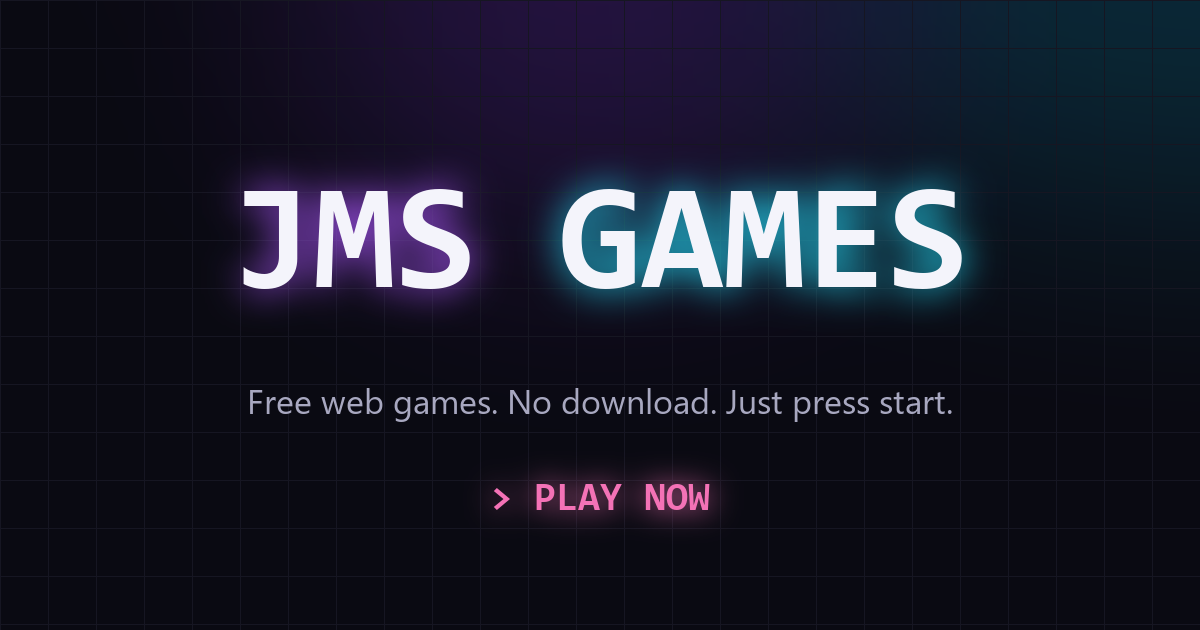
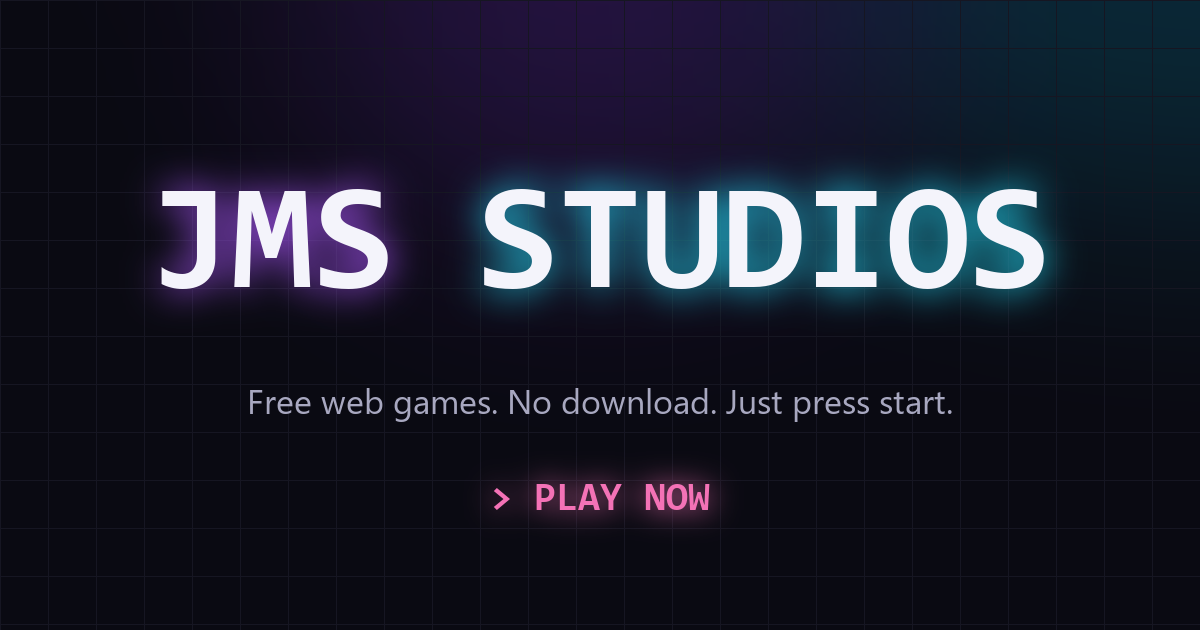
Rebrand hub to JMS Studios; remove personal name from site
- Wordmark, title, meta/OG, favicon, 404, manifest copy -> JMS Studios
- Footer now shows jmsgames.com instead of a byline
- Regenerated OG image with JMS Studios branding
- Domain stays jmsgames.com

Changed region(s): [[0.1233, 0.2714, 0.8942, 0.5127]]

diff --git a/index.html b/index.html
@@ -3,16 +3,16 @@
   <head>
     <meta charset="utf-8" />
     <meta name="viewport" content="width=device-width, initial-scale=1" />
-    <title>JMS Games — Play Joe Sardo's web games</title>
+    <title>JMS Studios — Play our web games</title>
     <meta
       name="description"
-      content="JMS Games is the home of Joe Sardo's web games. Browse and play the collection — free, in your browser, no download."
+      content="JMS Studios is the home of our web games. Browse and play the collection — free, in your browser, no download."
     />
     <meta name="theme-color" content="#0a0a12" />
 
     <!-- Open Graph / social -->
     <meta property="og:type" content="website" />
-    <meta property="og:title" content="JMS Games" />
+    <meta property="og:title" content="JMS Studios" />
     <meta property="og:description" content="Free web games, playable in your browser. No download." />
     <meta property="og:url" content="https://jmsgames.com" />
     <meta property="og:image" content="https://jmsgames.com/assets/og.png" />
@@ -50,7 +50,7 @@
     <header class="site-header">
       <a class="brand" href="/">
         <span class="brand-mark">JMS</span>
-        <span class="brand-word">GAMES</span>
+        <span class="brand-word">STUDIOS</span>
       </a>
       <p class="tagline">Free web games. No download. Just press start.</p>
     </header>
@@ -62,7 +62,7 @@
           <span class="hero-line-2">PLAY NOW.</span>
         </h1>
         <p class="hero-sub">
-          A growing arcade of browser games built by Joe Sardo. Click any cabinet to play.
+          A growing arcade of browser games from JMS Studios. Click any cabinet to play.
         </p>
       </section>
 
@@ -80,7 +80,7 @@
     </main>
 
     <footer class="site-footer">
-      <p>&copy; <span id="year"></span> JMS Games · Built by Joe Sardo</p>
+      <p>&copy; <span id="year"></span> JMS Studios · <a href="https://jmsgames.com">jmsgames.com</a></p>
     </footer>
 
     <script src="/app.js"></script>

diff --git a/404.html b/404.html
@@ -3,7 +3,7 @@
   <head>
     <meta charset="utf-8" />
     <meta name="viewport" content="width=device-width, initial-scale=1" />
-    <title>404 — JMS Games</title>
+    <title>404 — JMS Studios</title>
     <meta name="theme-color" content="#0a0a12" />
     <link rel="icon" href="/favicon.svg" type="image/svg+xml" />
     <link rel="preconnect" href="https://fonts.googleapis.com" />

diff --git a/assets/make_og.py b/assets/make_og.py
@@ -49,13 +49,13 @@ def draw_glow_text(base, xy, text, font, fill, glow_color, anchor="mm", blur=18)
 # --- title: JMS GAMES (two-color) ---
 cx, cy = W // 2, 250
 jms = "JMS "
-games = "GAMES"
+studios = "STUDIOS"
 jms_w = draw.textlength(jms, font=title_font)
-games_w = draw.textlength(games, font=title_font)
-total = jms_w + games_w
+studios_w = draw.textlength(studios, font=title_font)
+total = jms_w + studios_w
 start = cx - total / 2
 draw_glow_text(img, (start + jms_w / 2, cy), jms, title_font, (244, 244, 251), PURPLE, anchor="mm")
-draw_glow_text(img, (start + jms_w + games_w / 2, cy), games, title_font, (244, 244, 251), CYAN, anchor="mm")
+draw_glow_text(img, (start + jms_w + studios_w / 2, cy), studios, title_font, (244, 244, 251), CYAN, anchor="mm")
 
 # --- subtitle ---
 draw = ImageDraw.Draw(img)

diff --git a/README.md b/README.md
@@ -1,6 +1,6 @@
-# JMS Games — hub (jmsgames.com)
+# JMS Studios — hub (jmsgames.com)
 
-The landing page / portfolio for Joe Sardo's web games. Each game lives in its
+The landing page / portfolio for the JMS Studios web games. Each game lives in its
 **own** repo and Cloudflare Pages project, served at `gamename.jmsgames.com`.
 This hub is the front door at the apex `jmsgames.com` (+ `www`) and just links out.
 
